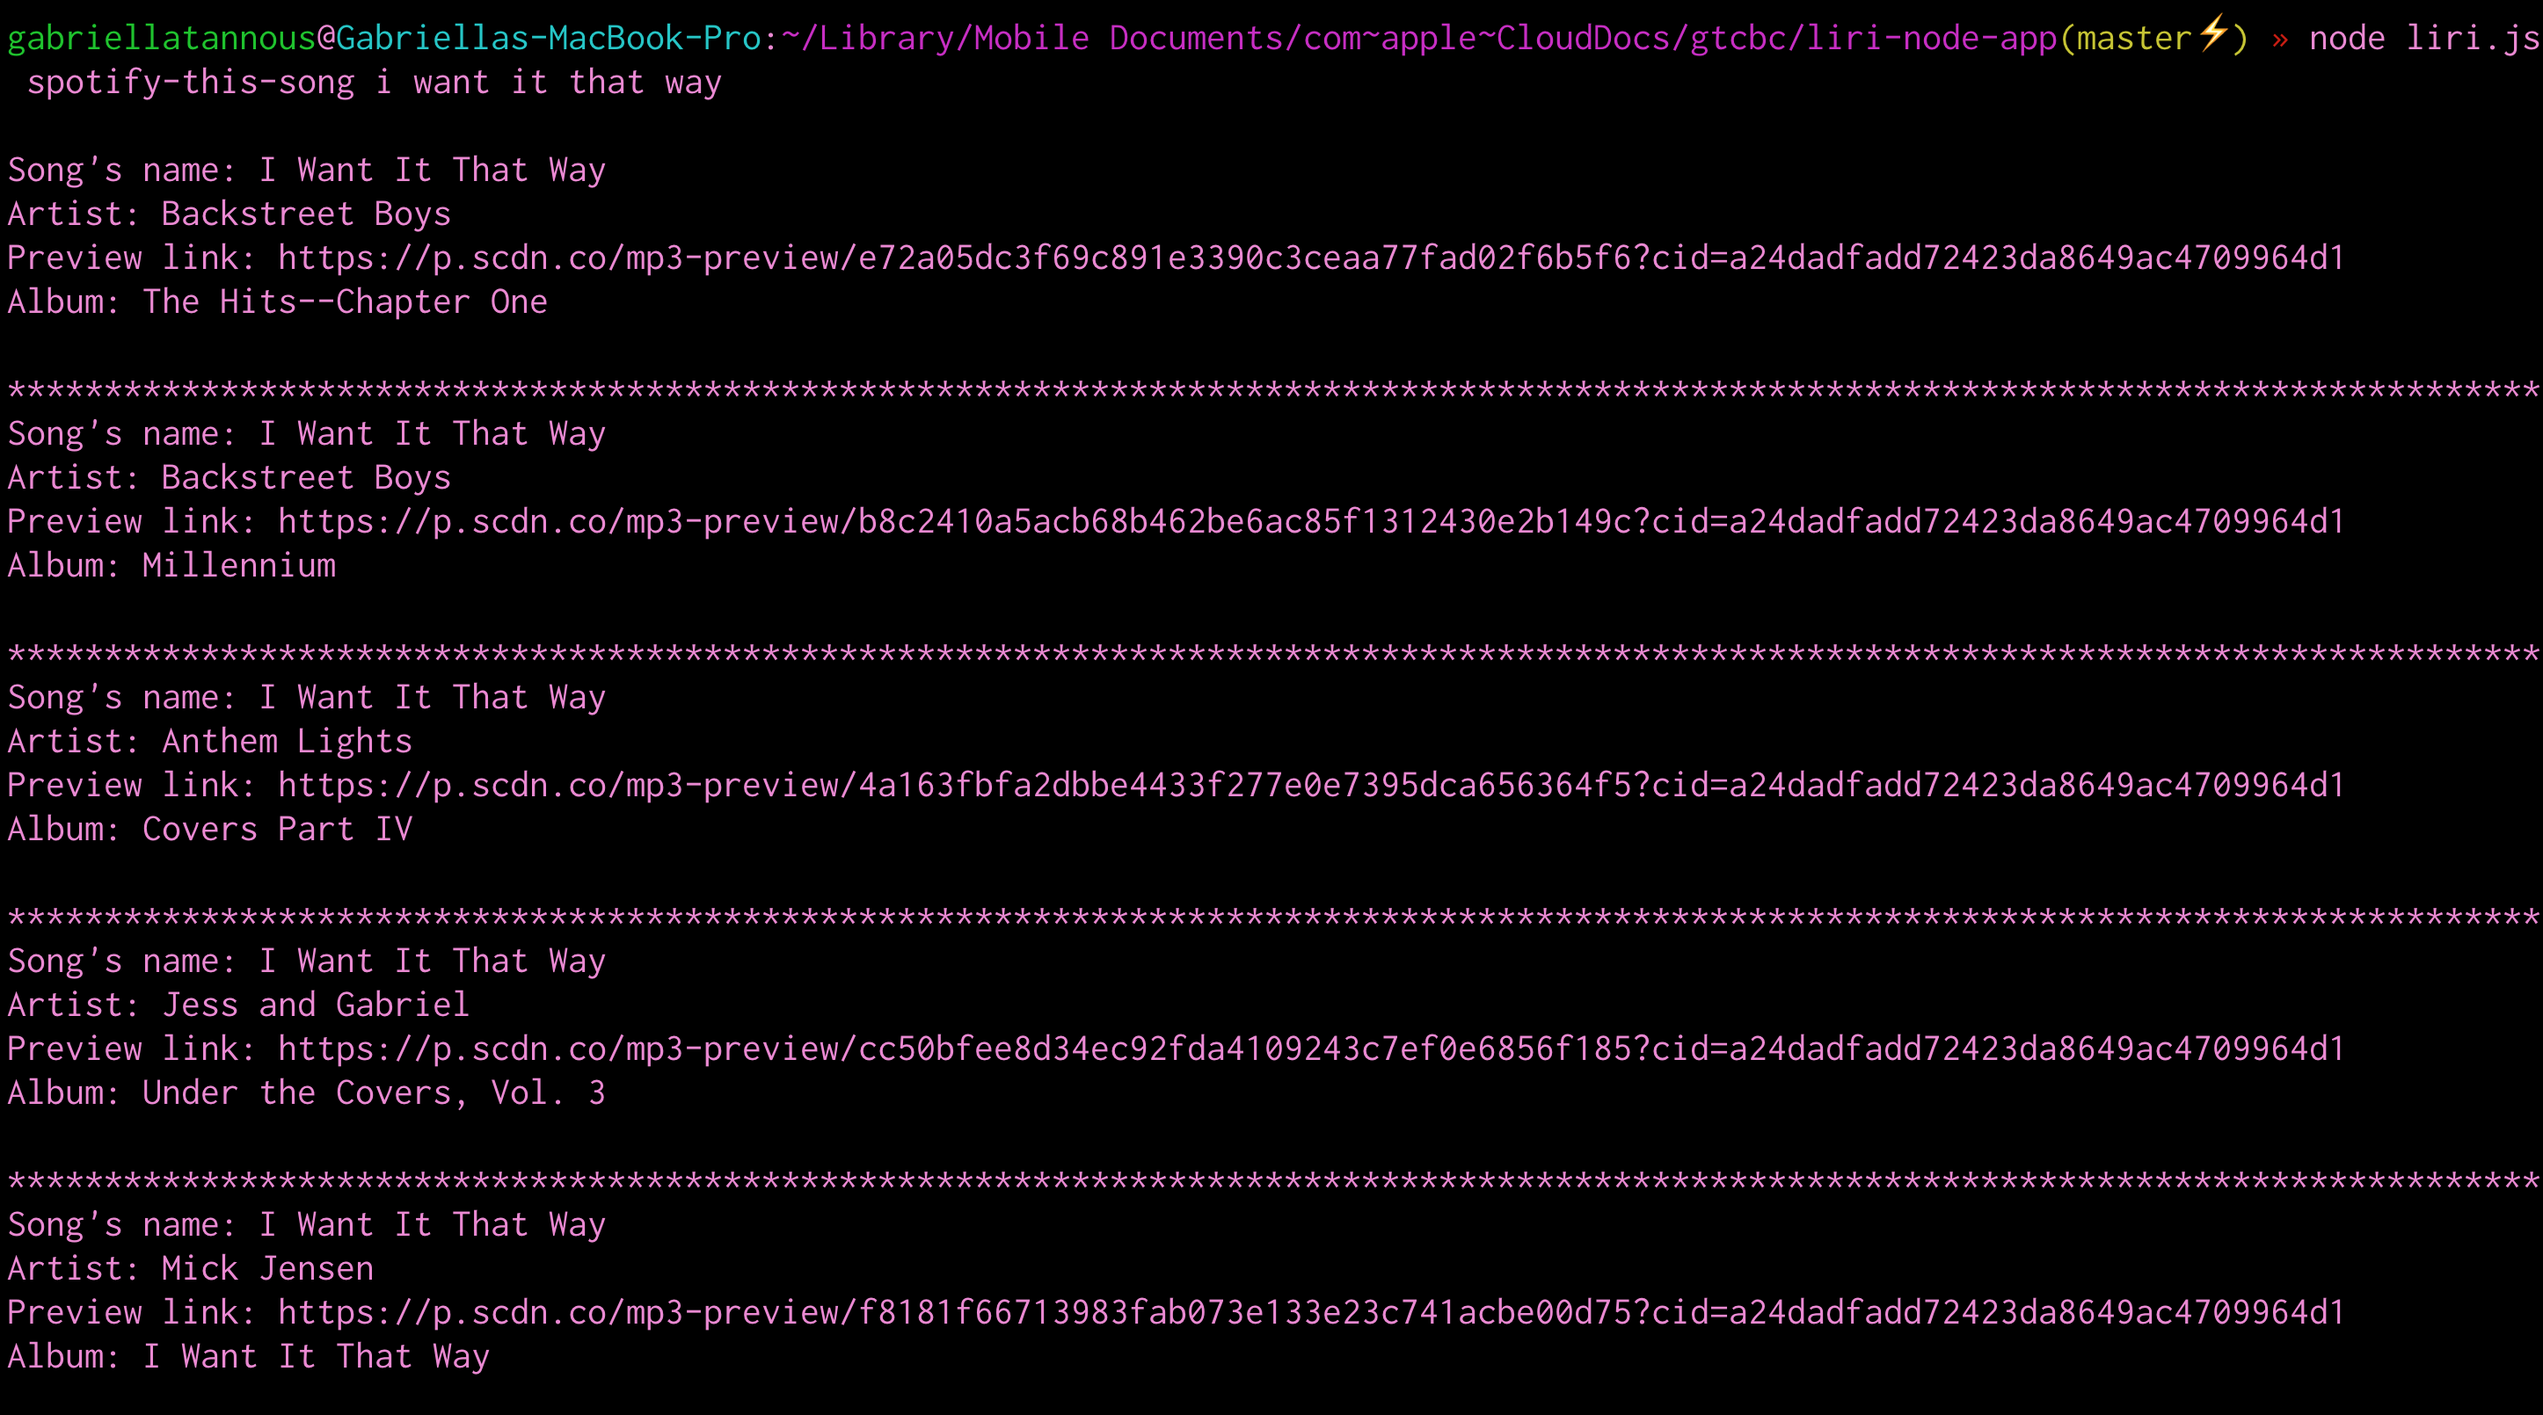
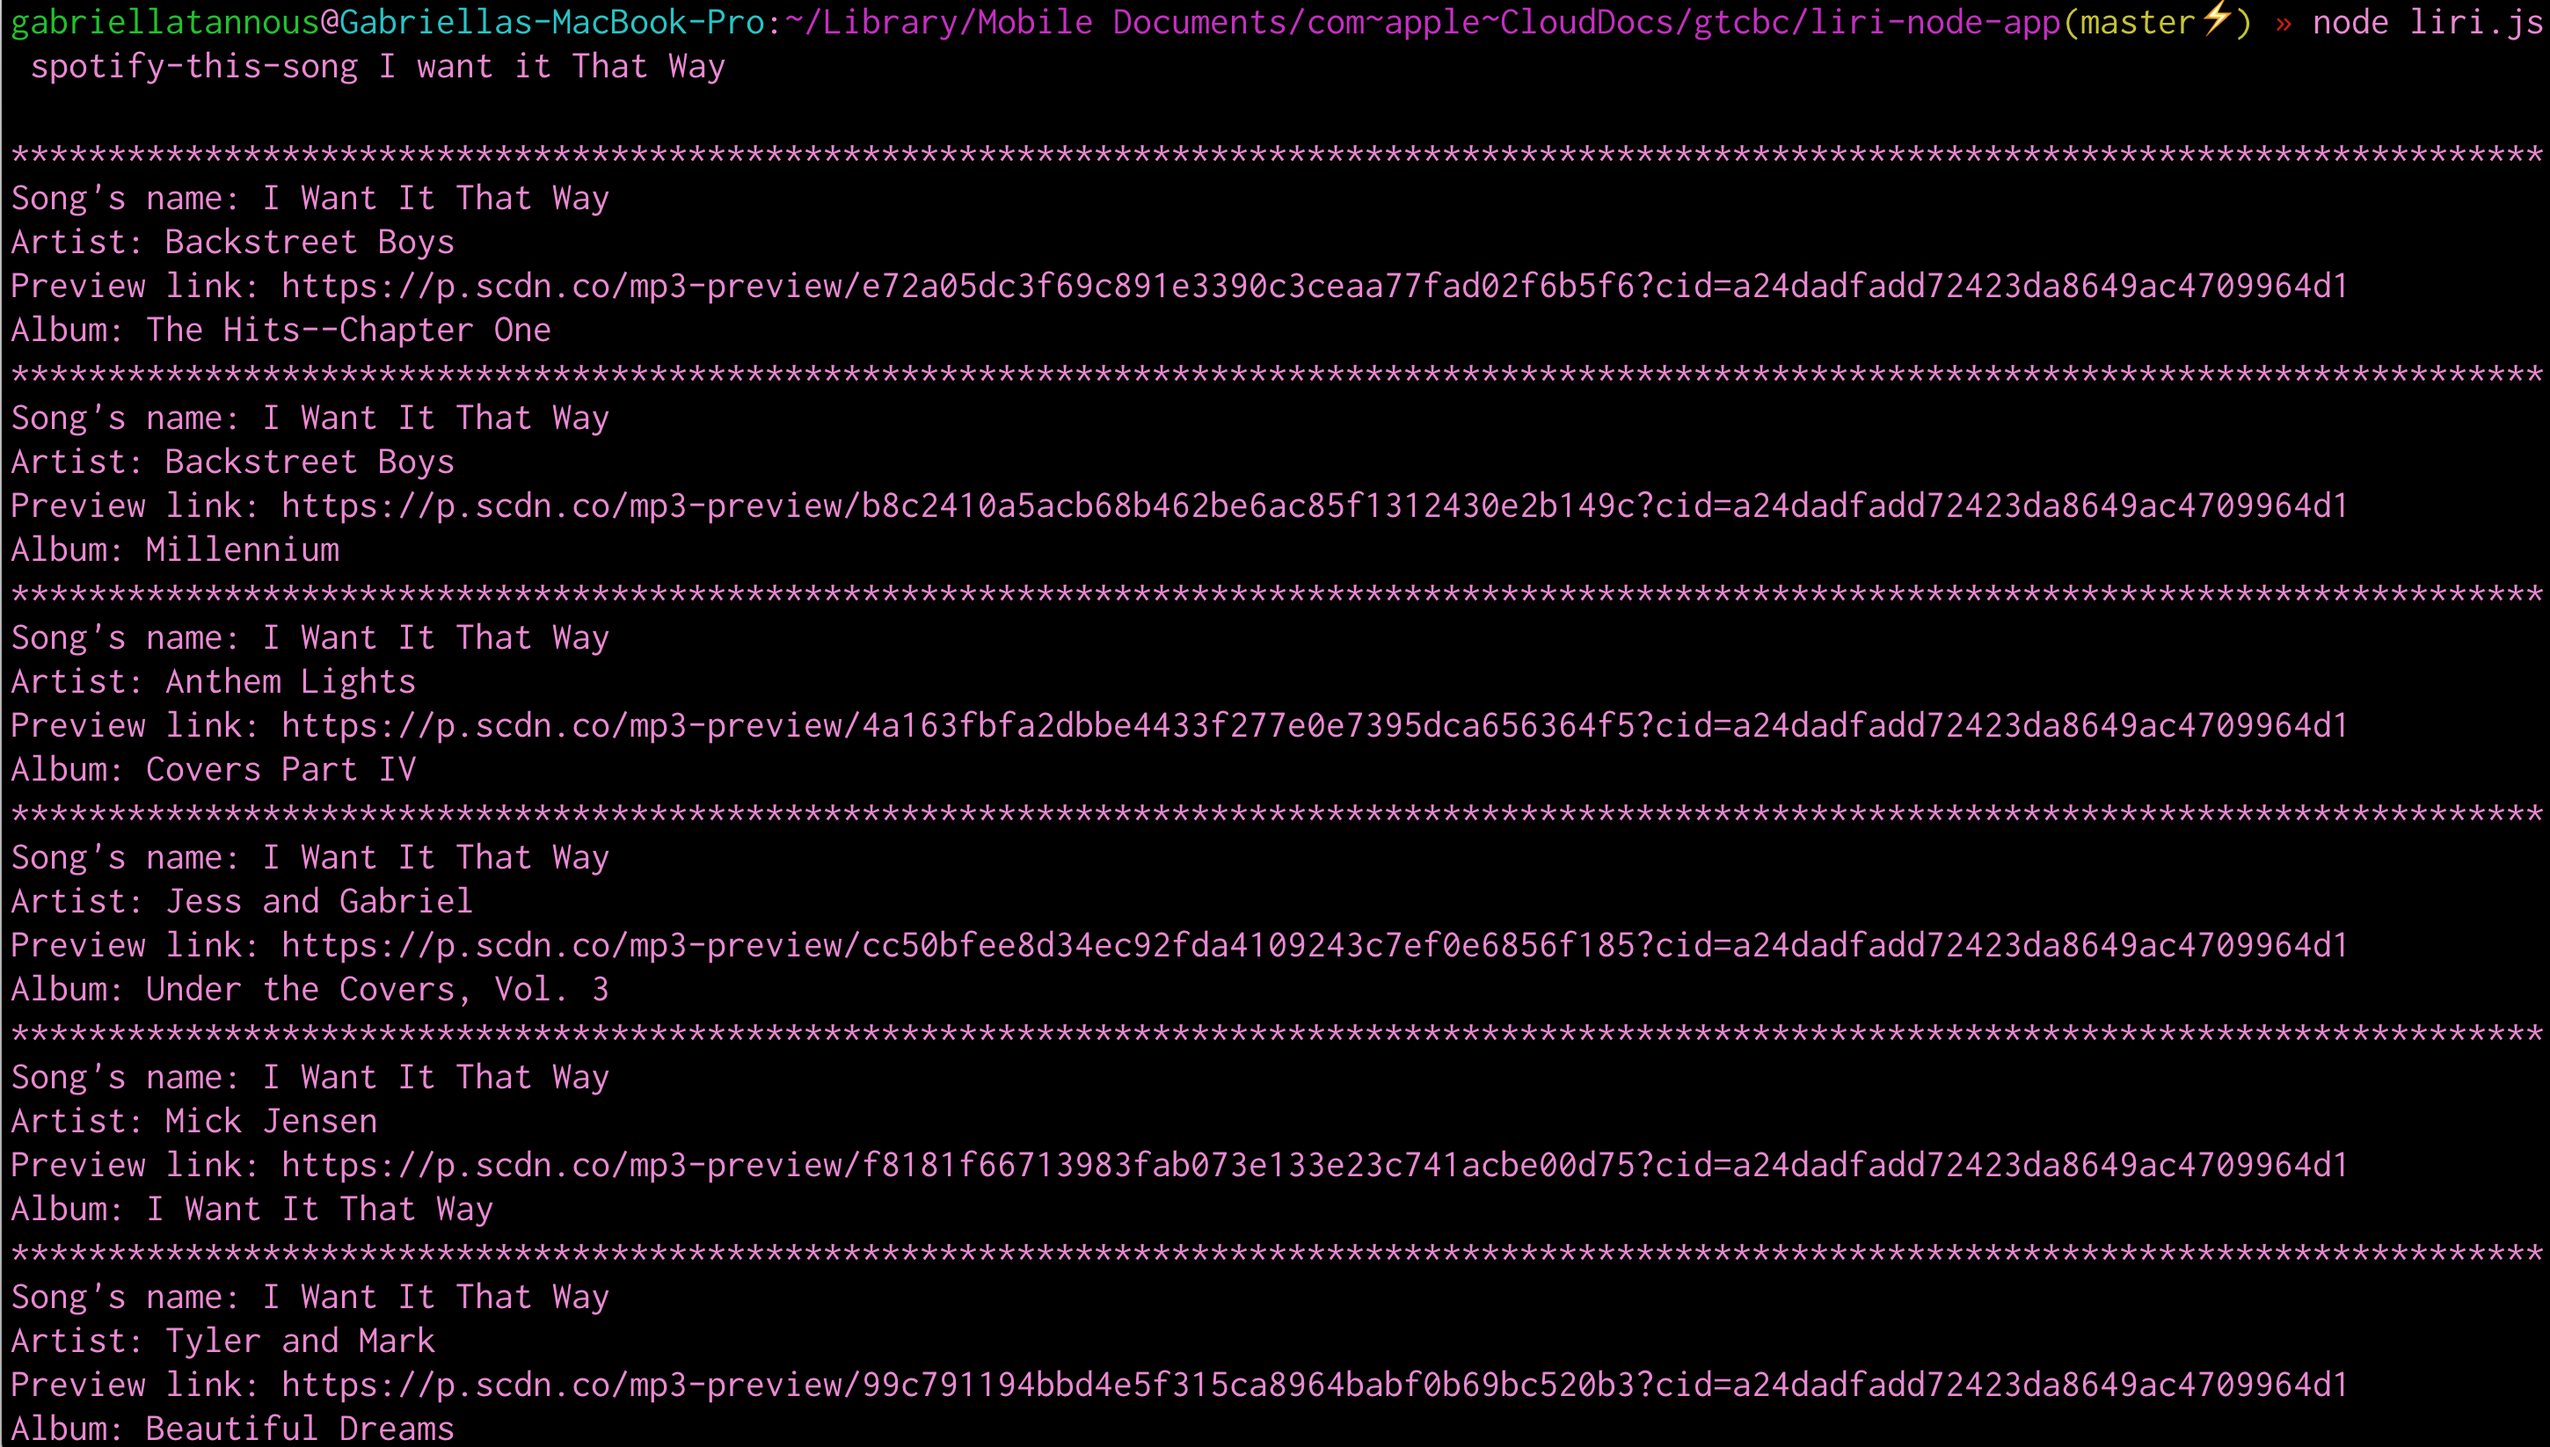
edited images

Changed region(s): [[0.0, 0.0932, 1.0, 1.0], [0.0, 0.0, 1.0, 0.0621]]

diff --git a/liri.js b/liri.js
@@ -49,7 +49,7 @@ function readUserInput() {
         //Call the function to search songs with Spotify
         //If no song entered, search the song "The Sign"
         if (!nameToSearch) {
-            searchSong("Survivor");
+            searchSong("In the Name of Love");
         } else {
             searchSong(nameToSearch);
         }   
@@ -101,7 +101,6 @@ function searchBand(string) {
       userInput = dataArr[0];
       nameToSearch = dataArr[1];
       readUserInput();
-  
     })
   };
   
@@ -115,12 +114,12 @@ function searchBand(string) {
     console.log("");
     var songs = data.tracks.items;
     for (var i=0; i<songs.length;i++){
+      console.log("***********************************************************************************************************************************")
       console.log("Song's name: " + songs[i].name);
       console.log("Artist: " + songs[i].artists.map(getArtistsNames));
       console.log("Preview link: " + songs[i].preview_url);
       console.log("Album: " + songs[i].album.name);
-      console.log("");
-      console.log("***********************************************************************************************************************************")
+      
     } 
   
   });
